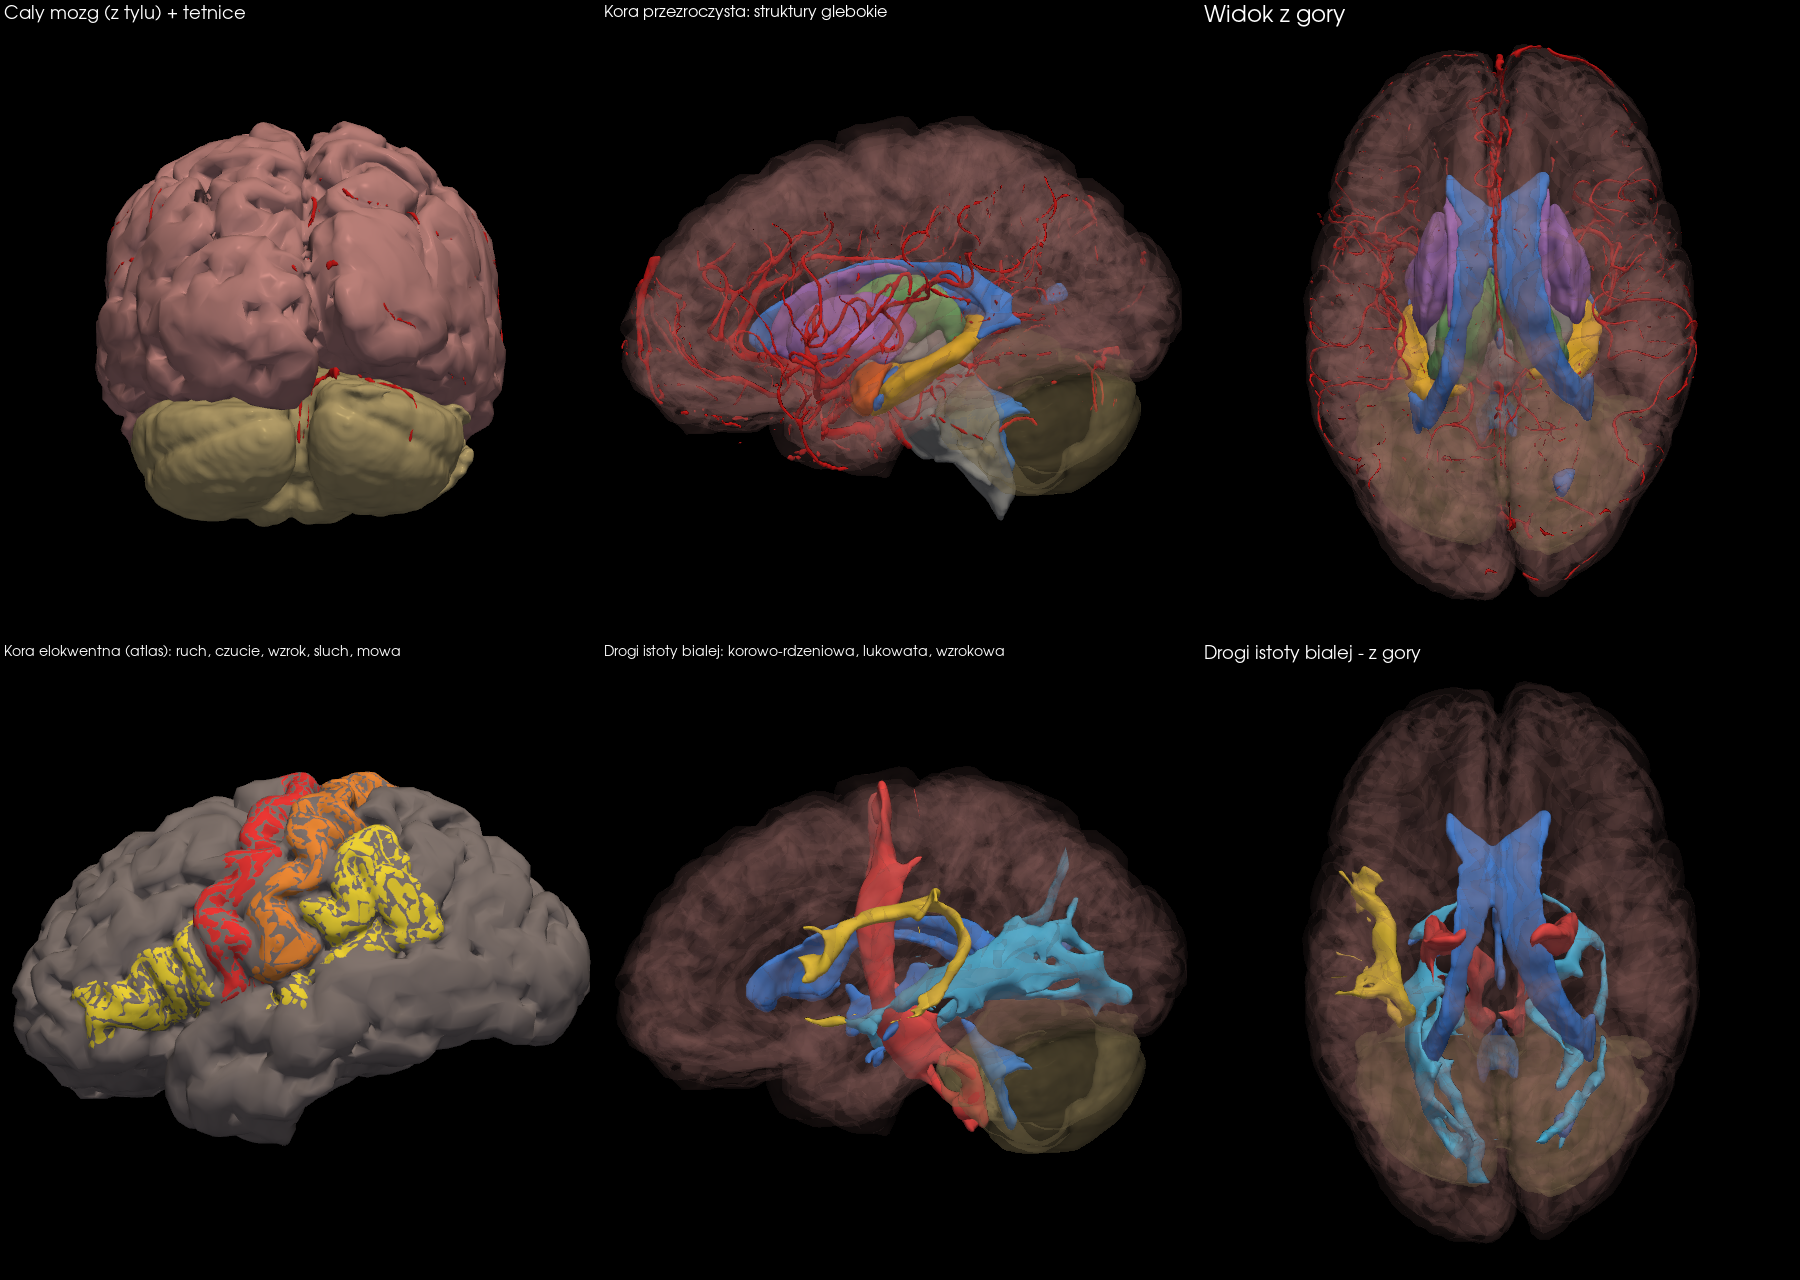
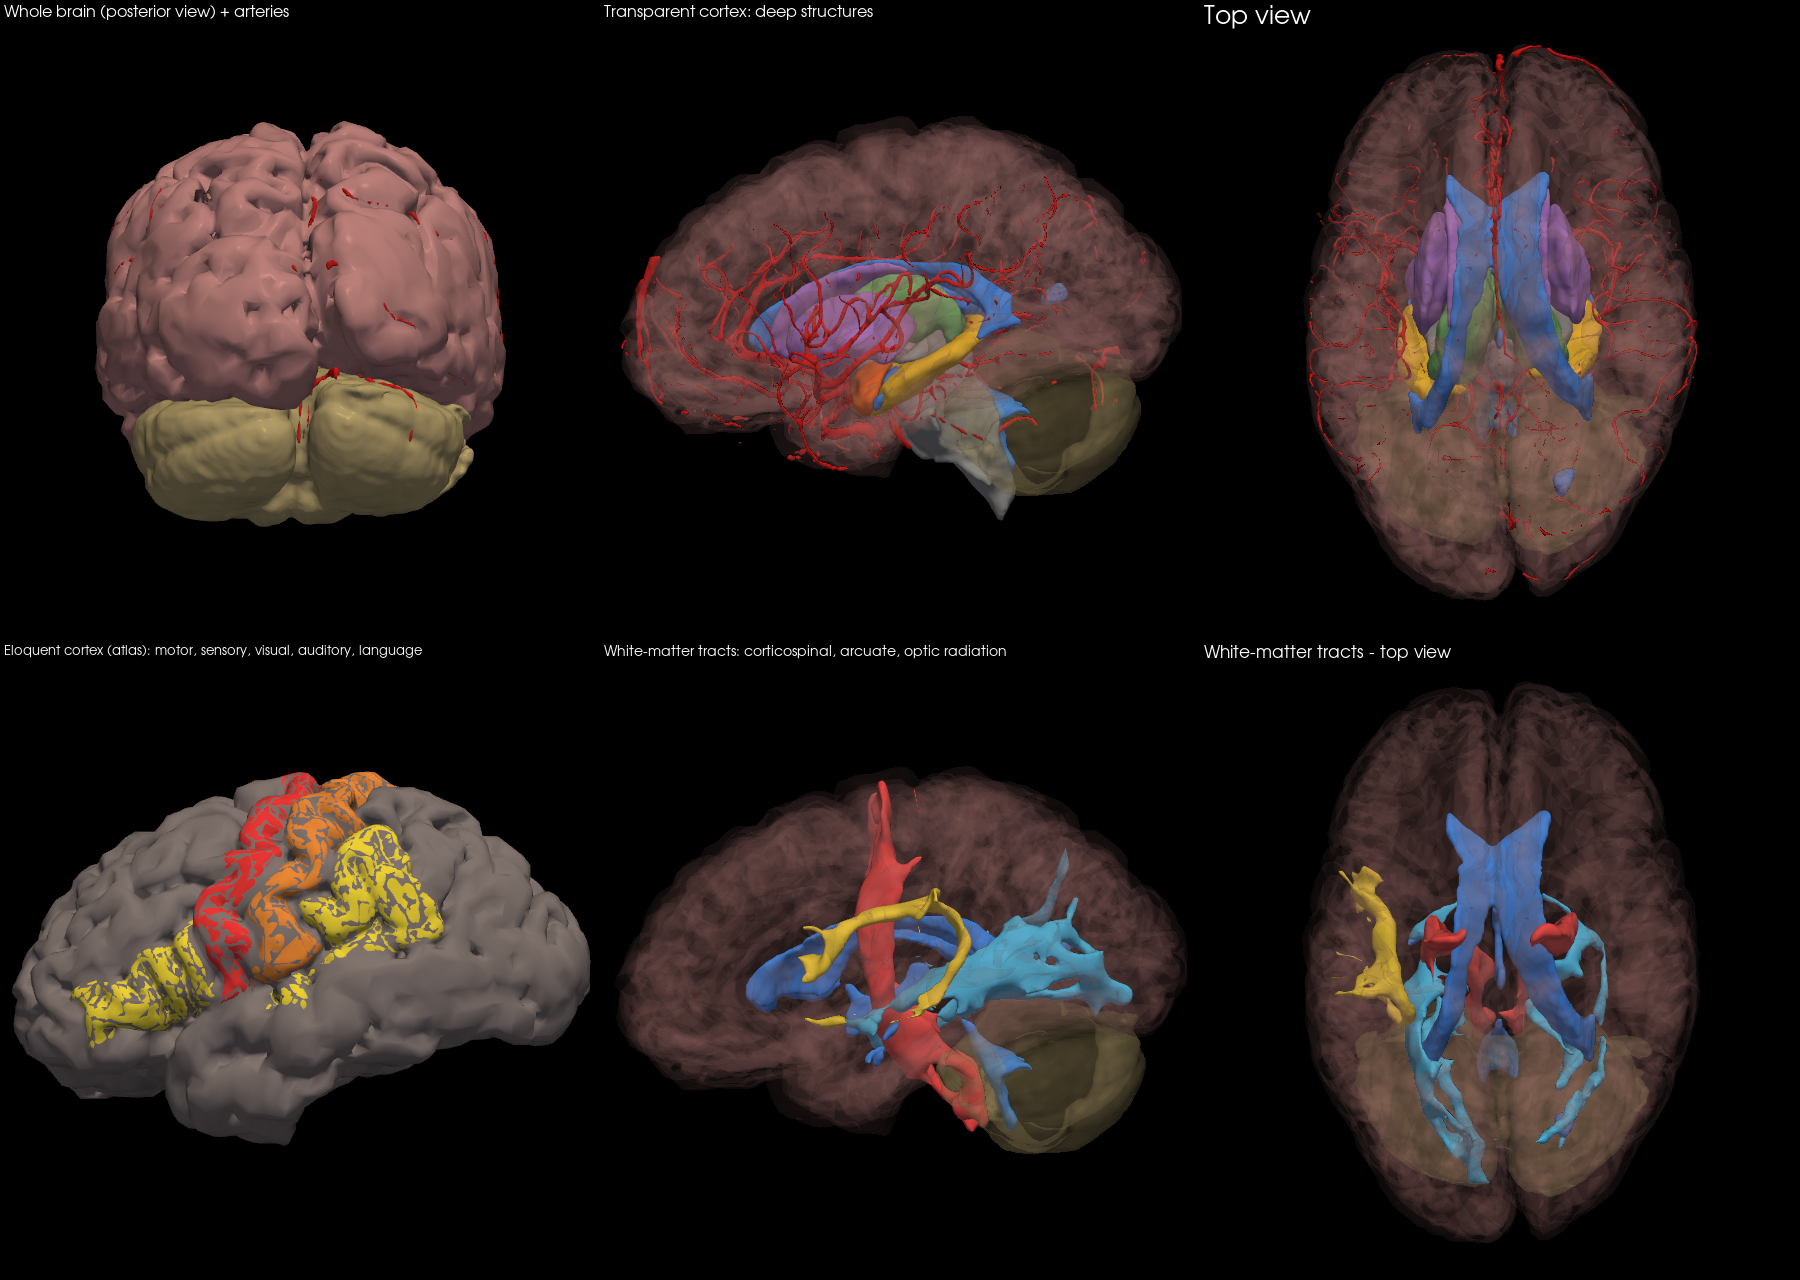
Add files via upload

diff --git a/docs/veins_and_ct.md b/docs/veins_and_ct.md
@@ -1,37 +1,37 @@
-# Żyły, zatoki i CT – jak je sensownie dodać
+# Veins, sinuses and CT - how to add them properly
 
-## Żyły i zatoki opony twardej
+## Veins and dural sinuses
 
-**Wniosek:** jedyna wiarygodna droga to badanie, w którym krew żylna jest jasna – najlepiej **3D T1 po gadolinie** (standard przed SEEG w większości ośrodków). TOF-MRA celowo tłumi krew żylną, więc z naszego angio żył nie wyciągniemy.
+**Conclusion:** the only reliable source is an exam in which venous blood is bright - ideally a **3D T1 after gadolinium** (standard before SEEG in most centres). TOF-MRA deliberately suppresses venous blood, so our angiography cannot provide veins.
 
-| Opcja | Co daje | Ocena |
+| Option | What it gives | Assessment |
 |---|---|---|
-| **T1 przed + po gadolinie (odjęcie)** | zatoki + żyły korowe i mostowe, ~1 mm | **wybrana** – `pipeline/veins_ct1.py` |
-| Wenografia MR (PC-MRV) / CT-wenografia | zatoki i duże żyły | dobra alternatywa, ten sam kod (wejście = obraz naczyniowy) |
-| SWI | drobne żyły (ciemne) | dobra dla żył, słaba dla zatok; wymaga odwrócenia kontrastu |
-| Atlas żylny nałożony na pacjenta | tylko przybliżone położenie dużych zatok | **nie do planowania** – żyły korowe są osobnicze |
-| Zgadywanie z T1 bez kontrastu | nic pewnego | odrzucone |
+| **T1 before + after gadolinium (subtraction)** | sinuses + cortical and bridging veins, ~1 mm | **chosen** - `pipeline/veins_ct1.py` |
+| MR venography (PC-MRV) / CT venography | sinuses and large veins | good alternative, same code (input = vascular image) |
+| SWI | small veins (dark) | good for veins, poor for sinuses; needs contrast inversion |
+| Venous atlas registered to the patient | only the approximate position of large sinuses | **not for planning** - cortical veins are individual |
+| Guessing from non-contrast T1 | nothing reliable | rejected |
 
-**Jak działa `veins_ct1.py`:**
-1. rejestracja T1+Gd → T1,
-2. normalizacja jasności (mediana istoty białej = 1) i odjęcie: zostaje tylko to, co się wzmocniło,
-3. filtr naczyniowy w dwóch skalach: zatoki (średnica 6–10 mm) i żyły (1–3 mm),
-4. odjęcie tętnic z TOF (po gadolinie świecą też tętnice),
-5. osobne warstwy `veins` i `sinuses`, obie krytyczne (mapa odległości).
+**How `veins_ct1.py` works:**
+1. registration T1+Gd -> T1,
+2. intensity normalisation (white-matter median = 1) and subtraction: only enhancing structures remain,
+3. vesselness filter at two scales: sinuses (6-10 mm diameter) and veins (1-3 mm),
+4. removal of TOF arteries (arteries also enhance after gadolinium),
+5. separate `veins` and `sinuses` layers, both critical (distance map).
 
-**Status:** kod przetestowany na fantomie (`tests/test_veins_phantom.py`: zatoka wykryta w 70%, żyła w 100%). Brak publicznego pacjenta z T1 przed/po kontraście + TOF – walidacja czeka na dane.
+**Status:** tested on a phantom (`tests/test_veins_phantom.py`: sinus detected 70%, vein 100%). No public patient with pre/post-contrast T1 + TOF - validation waits for data.
 
 ## CT
 
-CT w SEEG ma cztery zastosowania – każde to osobna warstwa lub wynik:
+CT has four uses in SEEG - each is a separate layer or result:
 
-| Zastosowanie | Z czego | Wynik | Po co |
+| Use | Source | Output | Why |
 |---|---|---|---|
-| **Kość czaszki** | CT (HU > 300) | `skull.nii.gz` + mapa grubości kości | punkt wejścia, kąt wiercenia, grubość kości na trajektorii |
-| **Skóra** | CT (HU > −300) | `scalp.nii.gz` | dokładniejsza niż z MRI (brak zniekształceń) |
-| **Tętnice z CTA** | CTA (HU 150–600 w czaszce, poza kością) | `arteries_cta.nii.gz` | gdy brak angio-MRI |
-| **Elektrody po implantacji** | CT po zabiegu (HU > 2000) | `contacts.json` (położenia kontaktów w mm) | porównanie planu z wykonaniem, walidacja planera |
+| **Skull bone** | CT (HU > 300) | `skull.nii.gz` + bone thickness map | entry point, drilling angle, bone thickness along the trajectory |
+| **Scalp** | CT (HU > -300) | `scalp.nii.gz` | more accurate than from MRI (no distortion) |
+| **Arteries from CTA** | CTA (HU 150-600 inside the skull, outside bone) | `arteries_cta.nii.gz` | when there is no MR angiography |
+| **Electrodes after implantation** | post-implant CT (HU > 2000) | `contacts.json` (contact positions in mm) | compare plan vs. actual placement, validate the planner |
 
-Dodatkowo w praktyce **rejestracja do robota / ramy stereotaktycznej** (np. Cirq, ROSA, Autoguide) odbywa się na CT – dlatego plan musi być w przestrzeni, którą da się przenieść na CT. U nas wszystko jest w przestrzeni T1, a CT jest do niej zarejestrowane sztywno (`ct_layers.py`), więc transformacja jest znana.
+In practice **registration to the robot / stereotactic frame** (e.g. Cirq, ROSA, Autoguide) is also done on CT, so the plan must be transferable to CT space. Everything here lives in T1 space and CT is rigidly registered to it (`ct_layers.py`), so the transform is known.
 
-**Status:** kod przetestowany na fantomie (`tests/test_ct_phantom.py`: 8/8 kontaktów, grubość kości wykryta). Następny krok: prawdziwy pacjent SEEG z CT – samouczek Brainstorm „Epileptogenicity” (MRI przed + CT po implantacji; wymaga darmowego konta Brainstorm do pobrania).
+**Status:** tested on a phantom (`tests/test_ct_phantom.py`: 8/8 contacts, bone detected). Next step: a real SEEG patient with CT - the Brainstorm "Epileptogenicity" tutorial dataset (pre-op MRI + post-implant CT; free Brainstorm account required to download).
